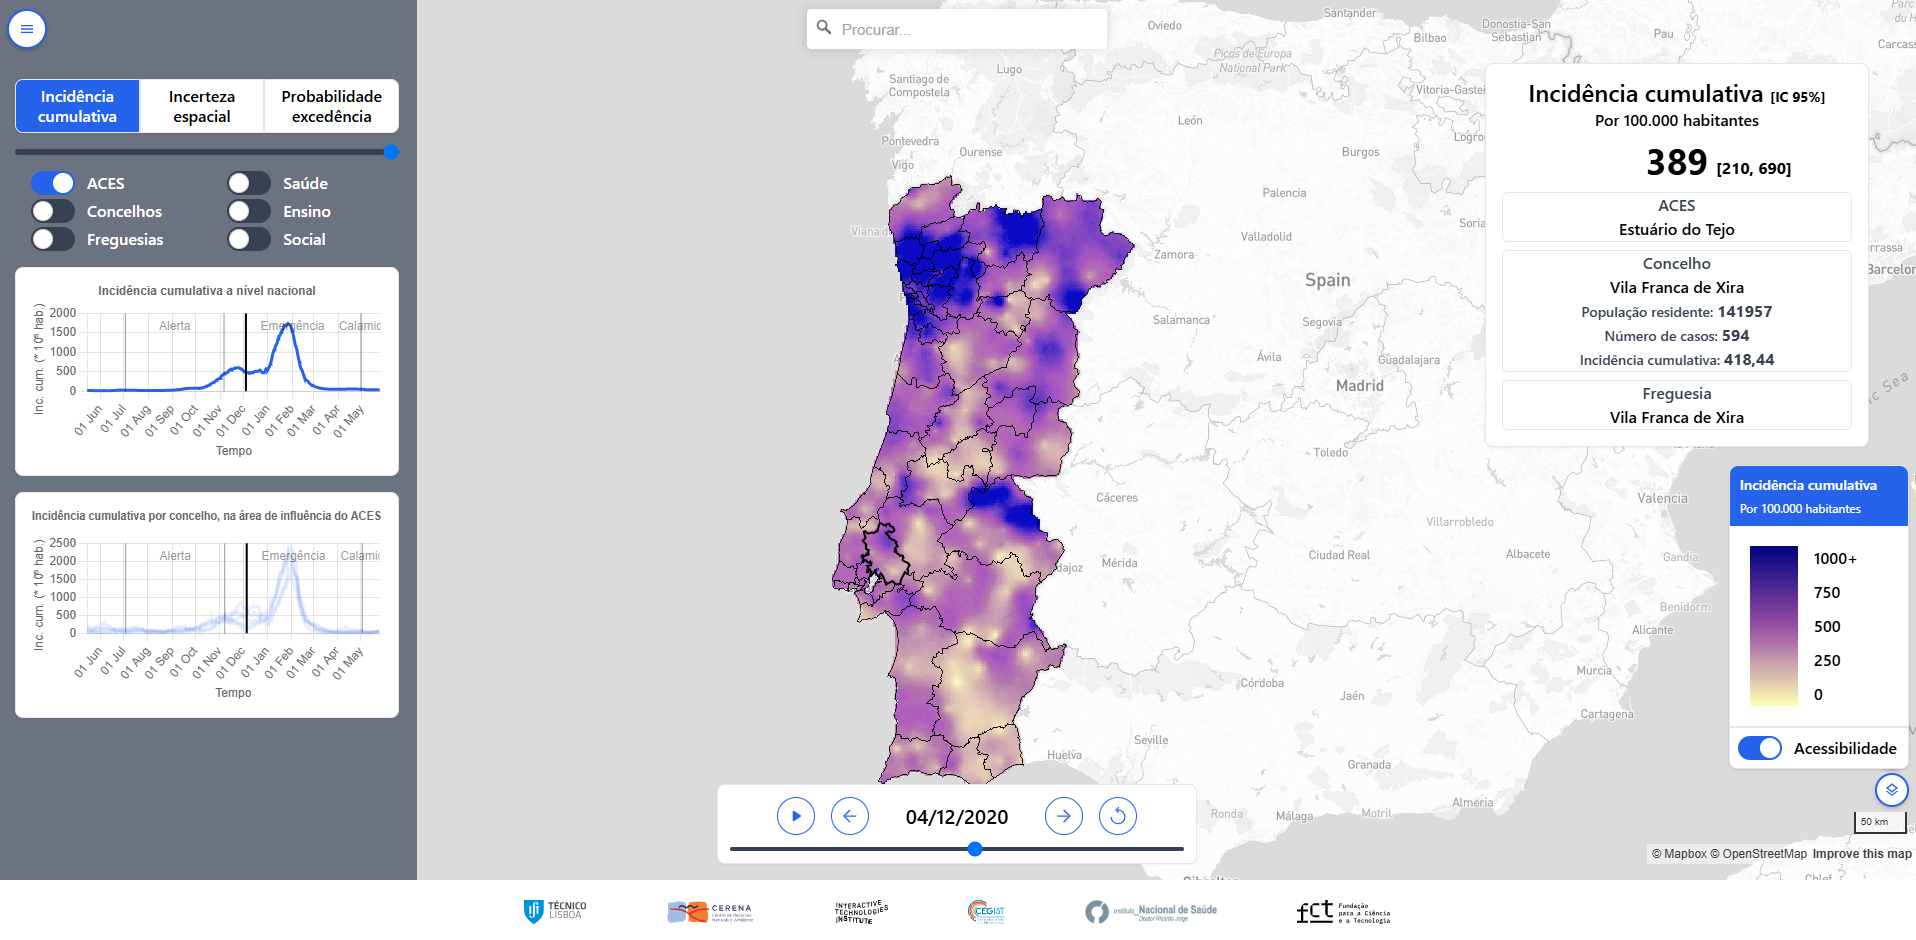
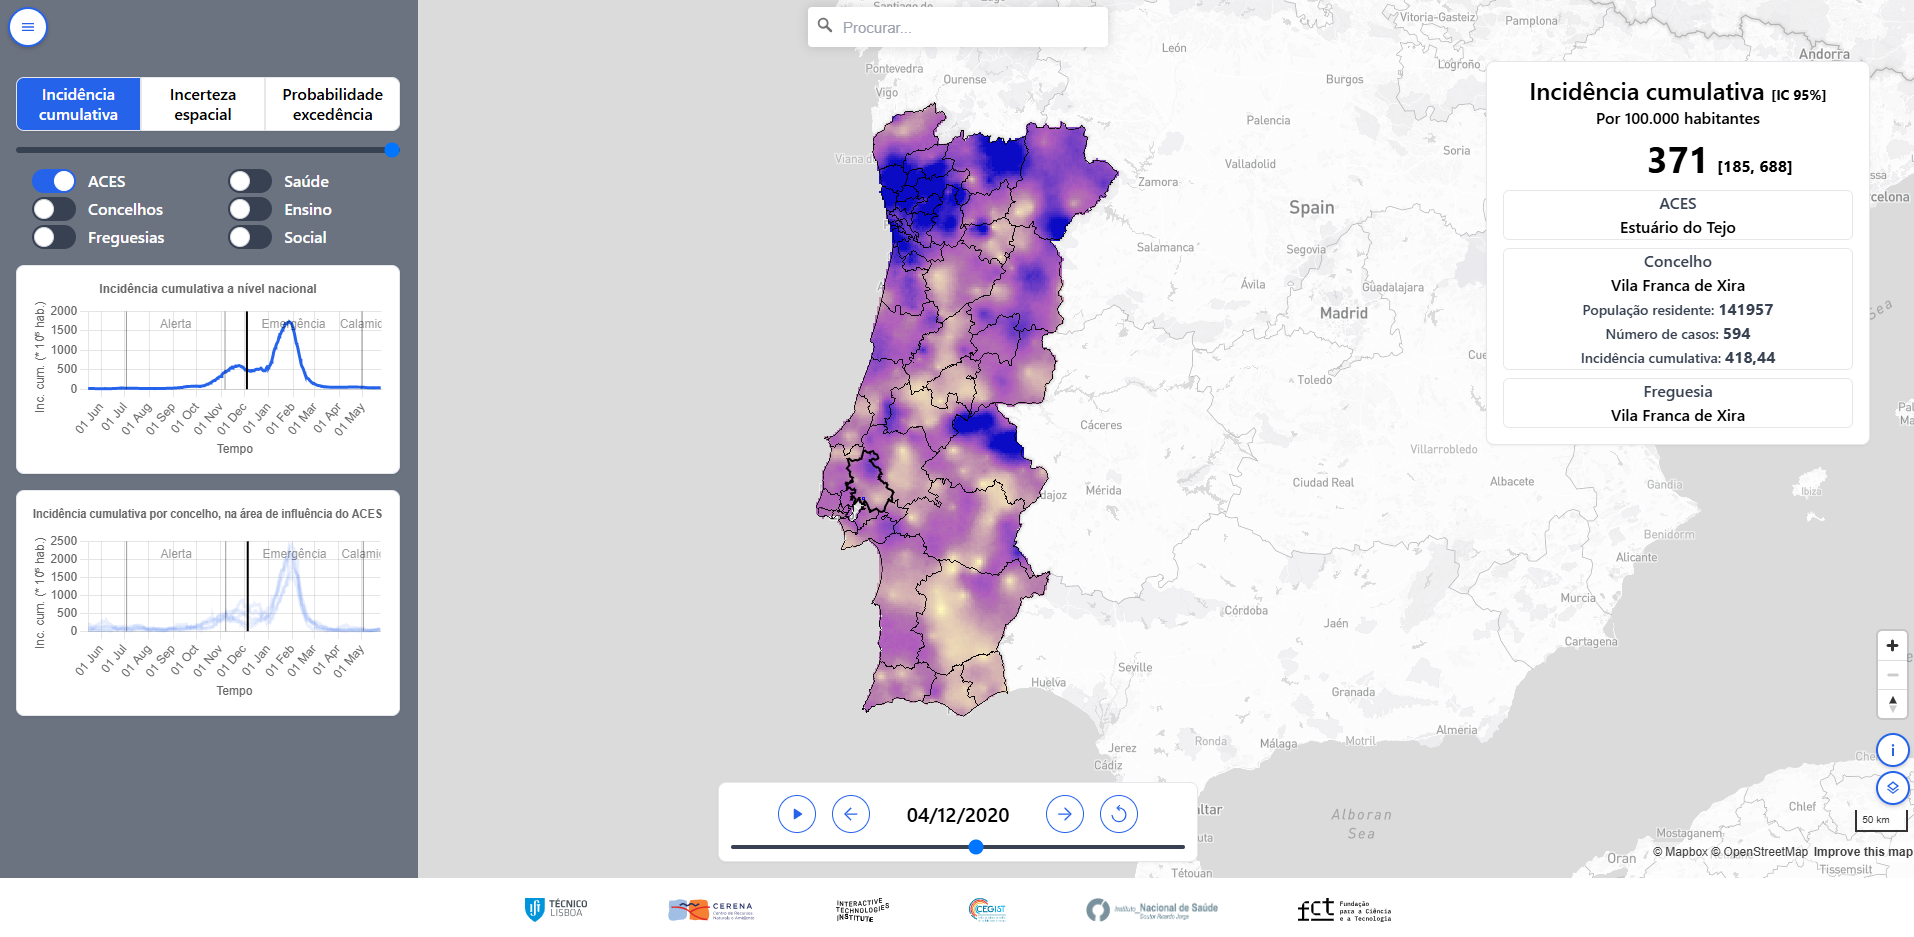
help page updates

diff --git a/static/help.html b/static/help.html
@@ -47,8 +47,8 @@
 				<li style="line-height: 0.5; font-size: small"><a href="#subtitle22">&nbsp;&nbsp;&nbsp;&nbsp;2.2. Correlação espacial</a></li>
 				<li style="line-height: 1;"><a href="#title3">3. Simulação Sequencial Directa por Blocos</a></li>
 				<li style="line-height: 0.5; font-size: small"><a href="#subtitle24">&nbsp;&nbsp;&nbsp;&nbsp;3.1. Mapas de incidência e quantificação da incerteza espacial</a></li>
-				<li style="line-height: 1;"><a href="#title3">3. Navegação</a></li>
-				<li style="line-height: 1;"><a href="#title4">4. Metadados</a></li>
+				<li style="line-height: 1;"><a href="#title4">4. Navegação</a></li>
+				<li style="line-height: 1;"><a href="#title5">5. Metadados</a></li>
 			</ul>
 		</nav>
 
